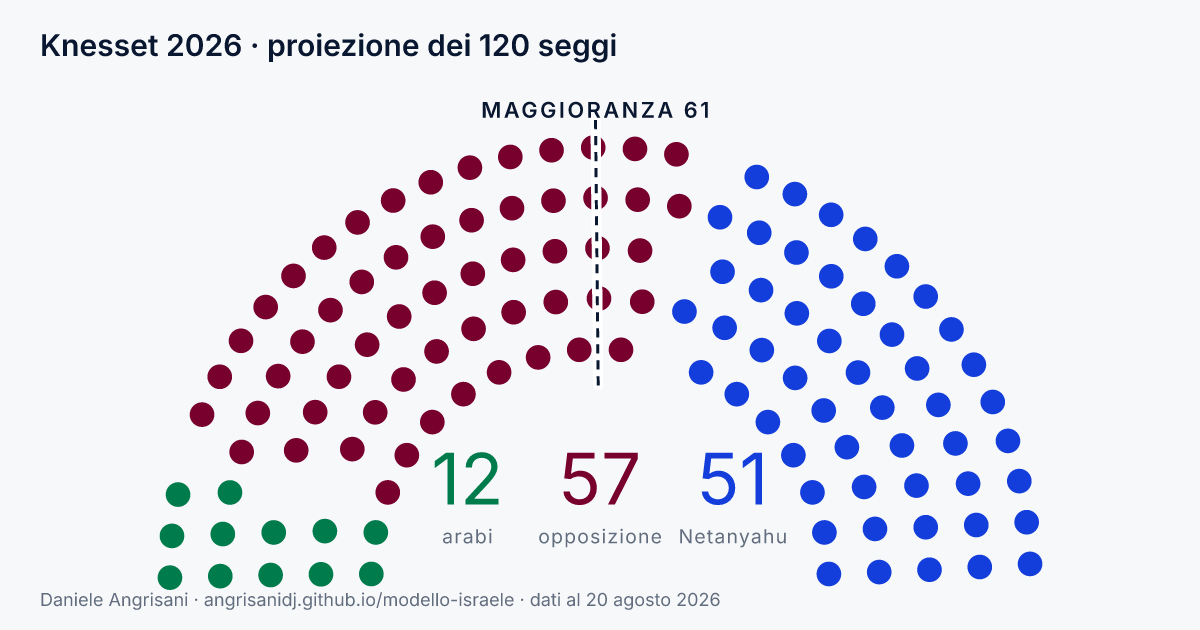
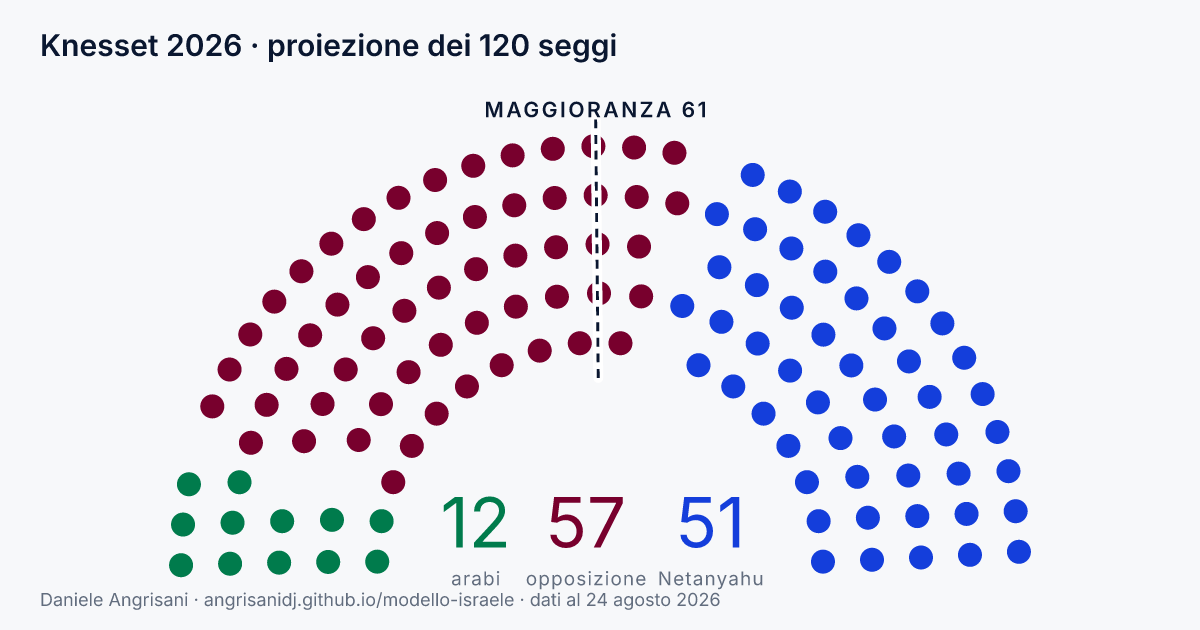
Far uscire dalla pagina anche la dichiarazione dell'ipotesi, non solo i numeri
La leva delle liste in bilico nasce accesa, quindi il conteggio predefinito non
è quello della fonte. La riga di esito lo dichiara a chi è sulla pagina — e chi
riceve il link su WhatsApp, chi vede la card su Facebook e il servizio terzo che
riceve il prompt non hanno modo di saperlo. È la stessa famiglia del riquadro
dell'evento isolato: un numero che esce dal suo contesto.

LA DOMANDA NON È QUELLA DI statoLeve(), ed è la cosa che non si deduce. Quella
confronta con PAR_DEF e risponde «che cosa ha cambiato il lettore»: da quando il
predefinito è esso stesso un'ipotesi, TACE proprio quando l'ipotesi è applicata.
Serviva un'altra funzione per un'altra domanda — che cosa c'è dentro questi
numeri — e ipotesiNeiNumeri() è quella: una stringa, tre consumatori, e parla
solo quando l'ipotesi sposta davvero un seggio. Oggi restituisce stringa vuota e
niente cambia.

I CANALI SI DIVIDONO. X, Telegram, WhatsApp e Threads ricevono il testo, e a
dirlo è testoCondivisione(); Facebook e LinkedIn ricevono solo l'indirizzo, e a
dirlo è la targa dell'og:image. og:title NON PUÒ, ed è misurato: il titolo più
lungo sta a 58 caratteri su 59 disponibili.

L'alternativa — che il job scrivesse i totali senza la leva — è stata scartata:
la card direbbe numeri diversi da quelli che si trovano cliccando, cioè una
terza lettura degli stessi dati. L'anteprima deve dire quello che la pagina dice.

LA TARGA. La terza riga sta nella banda della testata, che vale 96 unità e ne usa
[…]

diff --git a/test/suite/blocchi.js b/test/suite/blocchi.js
@@ -62,7 +62,8 @@ src = src.slice(0, src.indexOf('carica().then(render,render)')) +
   'blocchi:blocchi,render:render,PRESET:PRESET,TOT_ORD:TOT_ORD,TOT_SIGLA:TOT_SIGLA,' +
   'testoCondivisione:testoCondivisione,promptAI:promptAI,serieModello:serieModello,' +
   'get SOND(){return SOND;},set SOND(v){SOND=v;},get SEG(){return SEG;},' +
-  'get PAR(){return PAR;},PAR_DEF:PAR_DEF,set SIM(v){SIM=v;}};})();';
+  'get PAR(){return PAR;},PAR_DEF:PAR_DEF,statoLeve:statoLeve,' +
+  'ipotesiNeiNumeri:ipotesiNeiNumeri,set SIM(v){SIM=v;}};})();';
 eval(src);
 
 const $ = i => D.getElementById(i);
@@ -492,6 +493,101 @@ function seggiOra(){ return A.IDS.filter(i => A.SEG[i]).map(i => i + ':' + A.SEG
   esito(A.bloccoDi('amcha') !== null && A.bloccoDi('lista_che_non_esiste') === null,
     'e bloccoDi() risponde null per una lista che non e in anagrafica, invece di indovinare');
   A.IN_BILICO.pop();
+}
+
+/* ══ 10 · QUELLO CHE ESCE DALLA PAGINA PORTA L'IPOTESI CON SÉ ══════════════════════
+ * È la famiglia del riquadro dell'evento isolato: un numero che esce dal suo contesto.
+ * Da quando la leva nasce accesa, il conteggio predefinito non è quello della fonte — e
+ * la riga di esito che lo dichiara la vede chi è SULLA pagina, non chi riceve il testo su
+ * WhatsApp, non chi vede la card su Facebook, non il servizio terzo che riceve il prompt.
+ *
+ * E LA DOMANDA NON È QUELLA DI statoLeve(). Quella confronta con PAR_DEF e risponde «che
+ * cosa ha cambiato il lettore»: con la leva accesa per difetto TACE proprio quando
+ * l'ipotesi è applicata. Le due funzioni devono restare due, e queste asserzioni sono
+ * quelle che lo tengono. */
+{
+  conBilico(0);
+  esito(A.ipotesiNeiNumeri() === '',
+    'senza seggi da spostare non si dichiara niente: un ipotesi che non muove un numero e ' +
+    'rumore, e insegna a saltare la riga prima del giorno in cui conta');
+  esito(A.testoCondivisione(false).indexOf('ipotesi') < 0,
+    'e la frase di condivisione non ne parla');
+
+  conBilico(4);
+  const ip = A.ipotesiNeiNumeri();
+  esito(ip.length > 0 && /ipotesi/.test(ip) && /non un fatto/.test(ip),
+    'con la lista in Knesset la dichiarazione c e, e dice che e un ipotesi', ip);
+  esito(/statoLeve/.test('') === false && A.statoLeve() === '',
+    'mentre statoLeve TACE, perche il lettore non ha cambiato niente: e la ragione per cui ' +
+    'le due funzioni sono due', '«' + A.statoLeve() + '»');
+  /* le tre strade che escono dalla pagina la portano, e la portano UGUALE */
+  esito(A.testoCondivisione(false).indexOf(ip) >= 0,
+    'la frase di condivisione la porta — X, Telegram, WhatsApp e Threads ricevono il testo');
+  esito(A.testoCondivisione(true).indexOf(ip) >= 0,
+    'anche nella forma con l indirizzo in coda');
+  esito(A.promptAI().indexOf(ip) >= 0,
+    'e il prompt che va al servizio terzo la porta');
+  /* UNA STRINGA SOLA: se un giorno una delle tre la ricomponesse per conto suo, direbbe la
+     stessa cosa oggi e una cosa diversa al primo ritocco. Si prova nel SORGENTE, dove sta
+     il legame, come per og:title e il job. */
+  const js = fs.readFileSync(__dirname + '/../app.js','utf8');
+  esito((js.match(/ipotesiNeiNumeri\(/g) || []).length >= 3,
+    'e nasce una volta sola: le strade che la usano la CHIAMANO, non la riscrivono ' +
+    '(una definizione piu le chiamate)',
+    String((js.match(/ipotesiNeiNumeri\(/g) || []).length) + ' occorrenze');
+
+  /* ══ e la targa dell'anteprima, che è la strada per Facebook e LinkedIn ══
+   * Lì il testo della condivisione non passa: passa solo l'indirizzo, e a parlare resta
+   * l'immagine. Il legame si prova nel sorgente del job — che gira in un altro processo,
+   * dove una divergenza non la vedrebbe nessuno — e la geometria si prova sui numeri. */
+  const ant = fs.readFileSync(__dirname + '/../../.github/scripts/anteprima.mjs','utf8');
+  /* LE DUE ASSERZIONI SONO PRECISE PERCHÉ DUE MUTANTI SONO SOPRAVVISSUTI A QUELLE VAGHE.
+     La prima stesura cercava `spia.ipotesiNeiNumeri` senza gli argomenti: il mutante che
+     passava alla targa la forma LUNGA — 142 caratteri su una riga che ne regge 100, cioè
+     una frase troncata proprio dove sta l'avvertimento — restava vivo. E non c'era niente
+     che dicesse che la riga viene DISEGNATA: spegnerla non faceva cadere nulla.
+     Si prova nel sorgente e non sul reso perché il job gira in un altro processo, dove una
+     divergenza non la vedrebbe nessuno. È l'idioma con cui og:title è legato al job. */
+  esito(/spia\.ipotesiNeiNumeri\(true\)/.test(ant),
+    'l anteprima CHIEDE la frase alla pagina invece di ricomporla, e chiede la forma CORTA');
+  esito(/ipotesi \? '<text/.test(ant),
+    'e la targa la DISEGNA davvero, invece di riceverla e buttarla');
+  esito(/ipotesiNeiNumeri:ipotesiNeiNumeri/.test(ant),
+    'e la funzione le arriva davvero, perche il job la espone nella spia');
+  /* le quote si LEGGONO dal sorgente del job e non si riscrivono qui: una costante
+     ricopiata in una prova e la strada doppia di sempre, e per giunta quella che decide se
+     la prova morde. */
+  const TESTA = +(/TESTA = (\d+)/.exec(ant) || [0,0])[1];
+  const yIp = +(/Y_IP = (\d+)/.exec(ant) || [0,0])[1];
+  const fsIp = +(/FS_IP = (\d+)/.exec(ant) || [0,0])[1];
+  esito(TESTA > 0 && yIp > 0 && fsIp > 0,
+    'la banda della testata e la riga della dichiarazione sono dichiarate nel sorgente',
+    'TESTA=' + TESTA + ' Y_IP=' + yIp + ' FS_IP=' + fsIp);
+  esito(yIp + 0.25 * fsIp < TESTA,
+    'e la riga sta DENTRO la banda che c e gia: non paga il disegno, perche la testata e ' +
+    'un margine della tela e non del disegno',
+    'fondo a ' + (yIp + 0.25 * fsIp) + ' su ' + TESTA);
+  /* IL PIEDE NON POTEVA PORTARLA, ed è il numero che ha deciso dove va. */
+  const LATO = +(/LATO = (\d+)/.exec(ant) || [0,40])[1];
+  const W = +(/W = (\d+)/.exec(ant) || [0,1200])[1];
+  const regge = Math.floor((W - 2 * LATO) / (0.55 * 18));
+  const piede = 'Daniele Angrisani · angrisanidj.github.io/modello-israele · dati al 24 agosto 2026';
+  esito(piede.length + ip.length > regge,
+    'e il piede non poteva portarla: a corpo 18 regge ' + regge + ' caratteri e ne usa gia ' +
+    piede.length + ', la dichiarazione ne vale ' + ip.length);
+  /* LA FORMA CORTA CI STA, ed è la ragione per cui esiste. */
+  const corta = A.ipotesiNeiNumeri(true);
+  const reggeIp = Math.floor((W - 2 * LATO) / (0.62 * fsIp));
+  esito(corta.length > 0 && corta.length <= reggeIp,
+    'e la forma corta ci sta nella riga della testata senza essere tagliata',
+    corta.length + ' caratteri su ' + reggeIp + ': «' + corta + '»');
+  esito(/^Ipotesi del modello/.test(corta),
+    'e mette l essenziale DAVANTI: se un giorno andasse tagliata, a sopravvivere e ' +
+    'l avvertimento e non il dettaglio', corta);
+  esito(corta.length < ip.length,
+    'la corta e piu corta della lunga, che e quello che le distingue',
+    corta.length + ' contro ' + ip.length);
+  conAgo(4);
 }
 
 console.log('\nblocchi: ' + ok + '/' + (ok + ko));

diff --git a/index.html b/index.html
@@ -4461,6 +4461,55 @@ var AI_MOTORI=[
    Quindi il prompt lo dice. Si dichiarano solo le leve FUORI dal valore predefinito: a
    pagina intonsa la frase non c'è, e non si spiega una cosa che non è successa.
    I valori predefiniti escono da PAR_DEF e dalle costanti, non da una seconda copia. */
+/* ══ CHE IPOTESI C'È NEI NUMERI — che NON è la domanda di statoLeve() ══════════════════
+   statoLeve() risponde a «che cosa ha cambiato il lettore»: confronta con PAR_DEF, e serve
+   a dire a un servizio terzo che i numeri che riceve non sono quelli che troverebbe
+   all'indirizzo. È la domanda giusta finché il predefinito è il conteggio della fonte.
+   DAL 27 AGOSTO 2026 NON LO È PIÙ, e le due domande si sono separate. La leva delle liste
+   in bilico nasce accesa, quindi quando l'ipotesi È APPLICATA statoLeve() tace — perché
+   nessuno ha cambiato niente — ed è esattamente il caso in cui bisogna parlare. Una sola
+   funzione per le due domande direbbe la cosa giusta per la ragione sbagliata, e tacerebbe
+   nel caso peggiore.
+   QUESTA RISPONDE A «CHE COSA C'È DENTRO QUESTI NUMERI», e la risposta non dipende da chi
+   l'ha messa lì. Serve a tutto quello che ESCE DALLA PAGINA — la frase di condivisione, il
+   prompt, la targa dell'anteprima — dove chi legge non ha la riga di esito davanti e non ha
+   nessun modo di sapere che sta guardando un'ipotesi. È la stessa famiglia del riquadro
+   dell'evento isolato: un numero che esce dal suo contesto.
+   E PARLA SOLO QUANDO L'IPOTESI SPOSTA DAVVERO QUALCOSA. Oggi nessuna lista in bilico ha
+   seggi, quindi la leva muove zero e questa funzione restituisce stringa vuota: la frase
+   compare dal primo sondaggio che ne fa entrare una, insieme al pulsante. Dichiarare
+   un'ipotesi che non cambia nessun numero sarebbe rumore, e insegnerebbe a saltare la riga
+   proprio prima del giorno in cui conta. */
+/* DUE FORME, UNA FUNZIONE, ed è la stessa struttura di testoCondivisione() e di
+   titoloCorto()/fraseCorta(). La lunga sta dove c'è spazio — il testo di condivisione, il
+   prompt — e nomina le liste. La corta sta nella targa dell'anteprima, dove lo spazio è
+   contato: misurato, la riga della testata a corpo 18 regge 113 caratteri e la forma lunga
+   ne vale 142.
+   E LA FORMA CORTA METTE L'ESSENZIALE DAVANTI: apre con «Ipotesi del modello», non ci
+   arriva in fondo. Se un giorno la riga andasse tagliata — più righe in tabella, nomi più
+   lunghi — quello che sopravvive al taglio dev'essere la parte che avverte, non quella che
+   dettaglia. È la stessa scelta della riga di esito, che dichiara l'ipotesi nel primo
+   periodo perché quella frase la legge chi non ha toccato niente. */
+function ipotesiNeiNumeri(corta){
+ if(!PAR.inbilico) return '';
+ var c=contoBilico();
+ /* BASTA `ok.length`, e il `!c.mossi` che c'era accanto era irraggiungibile: filtraBilico()
+    scarta già le righe la cui lista non ha seggi nella proiezione, quindi una riga che
+    entra ne ha per definizione, e con la leva accesa quei seggi cambiano campo — mossi non
+    può essere zero. Una guardia che nessuna mutazione fa cadere è codice che nessuna prova
+    esercita, e l'ha trovata il banco delle mutazioni, non l'attenzione. */
+ if(!c.ok.length) return '';
+ if(corta){
+  var versi=c.ok.map(function(x){return BL[x.verso].n;})
+    .filter(function(v,i,a){return a.indexOf(v)===i;}).join(' e ');
+  return 'Ipotesi del modello: '+seg(c.mossi)+' '+acc(c.mossi,'contato','contati')+
+   ' con '+versi+', dove la fonte non '+acc(c.mossi,'lo mette','li mette')+'.';
+ }
+ var quali=c.ok.map(function(x){return nm(x.id)+' con '+BL[x.verso].n;}).join('; ');
+ return acc(c.mossi,'Un seggio è contato','Sono contati '+f(c.mossi)+' seggi')+
+  ' in un blocco in cui la fonte non '+acc(c.mossi,'lo mette','li mette')+': '+quali+
+  '. È un’ipotesi del modello, non un fatto.';
+}
 function statoLeve(){
  var v=[];
  var esc=Object.keys(ESCL).filter(function(k){return ESCL[k];});
@@ -4490,6 +4539,13 @@ function testoCondivisione(conIndirizzo){
      su X, su Facebook e su Telegram, dove un numero sbagliato non si corregge piu'. */
   ', partiti arabi '+f(b.arabo)+(b.incerto?', ago della bilancia '+f(b.incerto):'')+
   '. Aggiornata ogni notte sui sondaggi pubblicati.';
+ /* LA DICHIARAZIONE VA NEL TESTO, e non basta che stia nell'anteprima. Questa frase la
+    ricevono X, Telegram, WhatsApp e Threads, dove il testo passa come parametro: chi la
+    legge ha i numeri davanti e la pagina no. Su Facebook e LinkedIn passa solo l'indirizzo,
+    e lì a dirlo è la targa dell'immagine — le due strade coprono i due casi, e nessuna
+    delle due è di troppo perché nessuna delle due arriva sempre. */
+ var ip=ipotesiNeiNumeri();
+ if(ip) t+=' '+ip;
  return conIndirizzo?(t+' — '+CANONICO.replace(/^https?:\/\//,'').replace(/\/$/,'')):t;
 }
 /* IL PROMPT. I numeri sono quelli vivi; le leve fuori dal predefinito si dichiarano, o il
@@ -4502,7 +4558,7 @@ function promptAI(){
  var b=blocchi(SEG), g=ggCal(new Date(),VOTO), tot=MC.n||SIM;
  var pc=function(x){return f(Math.round(100*x/tot));};
  var u=SOND.map(function(s){return s.data;}).sort().pop();
- var leve=statoLeve(), np=nonPubblicate().length;
+ var leve=statoLeve(), ip=ipotesiNeiNumeri(), np=nonPubblicate().length;
  var ind=CANONICO.replace(/^https?:\/\//,'').replace(/\/$/,'');
  return 'Sto guardando un modello previsionale per le elezioni israeliane del 27 ottobre 2026, a '+
   f(g)+' giorni dal voto. La proiezione di oggi assegna '+f(b.coalizione)+' seggi al blocco Netanyahu, '+
@@ -4527,6 +4583,13 @@ function promptAI(){
       'del '+dl(u)+'.':'')+
   (leve?' Attenzione: questi numeri sono calcolati '+leve+', quindi differiscono dalla proiezione '+
    'di base che si vede aprendo l\'indirizzo.':'')+
+  /* E QUESTA È UN'ALTRA COSA DA «leve», benché sembri la stessa. `leve` dice che cosa il
+     lettore ha cambiato rispetto al predefinito; questa dice che ipotesi c'è nei numeri, e
+     le due divergono esattamente nel caso peggiore — la leva delle liste in bilico è accesa
+     PER DIFETTO, quindi quando l'ipotesi è applicata `leve` tace. Il prompt esce dalla
+     pagina e va a un servizio terzo, che risponderebbe su un conteggio che la fonte non fa
+     senza avere modo di saperlo. */
+  (ip?' '+ip:'')+
   '\n\nSpiegami che cosa significano questi numeri: quali coalizioni sono aritmeticamente '+
   'possibili, quali sono politicamente escluse dai veti dichiarati dai leader, e che cosa '+
   'dovrebbe cambiare perché uno dei due campi arrivi a 61. Cerca anche le notizie delle '+

diff --git a/CLAUDE.md b/CLAUDE.md
@@ -4247,6 +4247,81 @@ lettore si troverebbe davanti a un'ipotesi applicata senza il comando per toglie
 prova non indovina il punto, lo **cerca**: «al primo seggio» sarebbe falso, perché un seggio
 per rilevazione vale una quota dello 0,8% contro una soglia di 3,25.
 
+### Quello che esce dalla pagina deve portare l'ipotesi con sé
+
+Chiuso il 27 agosto 2026, subito dopo aver acceso la leva. È la stessa famiglia del
+riquadro dell'evento isolato: **un numero che esce dal suo contesto.** La riga di esito
+dichiara l'ipotesi a chi è sulla pagina; chi riceve il link su WhatsApp, chi vede la card
+su Facebook e il servizio terzo che riceve il prompt non hanno modo di saperlo.
+
+**LA DOMANDA NON È QUELLA DI `statoLeve()`, ed è la cosa che non si deduce.** `statoLeve()`
+confronta con `PAR_DEF` e risponde «che cosa ha cambiato il lettore»: serviva a dire a un
+servizio terzo che i numeri ricevuti non sono quelli che troverebbe all'indirizzo, ed è la
+domanda giusta finché il predefinito è il conteggio della fonte. **Da quando la leva nasce
+accesa non lo è più**: quando l'ipotesi è applicata `statoLeve()` **tace**, perché nessuno
+ha cambiato niente — cioè tace esattamente nel caso in cui bisogna parlare. Una funzione
+sola per le due domande direbbe la cosa giusta per la ragione sbagliata.
+
+Da qui `ipotesiNeiNumeri()`, che risponde a «che cosa c'è dentro questi numeri» e non
+dipende da chi ce l'ha messo. **Una stringa, tre consumatori** — la frase di condivisione,
+il prompt, la targa dell'anteprima — che è l'idioma di `fraseCorta()`.
+
+**Parla solo quando l'ipotesi sposta davvero qualcosa.** Oggi restituisce stringa vuota, e
+niente di quello che esce dalla pagina cambia: la frase compare dal primo sondaggio che fa
+entrare una lista in bilico, insieme al pulsante. Dichiarare un'ipotesi che non muove nessun
+numero insegnerebbe a saltare la riga proprio prima del giorno in cui conta.
+
+### I canali si dividono, e insieme si coprono
+
+| canale | che cosa passa | chi lo dichiara |
+|---|---|---|
+| X · Telegram · WhatsApp · Threads | testo **e** indirizzo | `testoCondivisione()` |
+| Facebook · LinkedIn | **solo** l'indirizzo | la targa dell'`og:image` |
+| il prompt a un servizio terzo | testo | `promptAI()` |
+| `og:title` | — | **non può** |
+
+**`og:title` non può, ed è misurato: il titolo più lungo sta a 58 caratteri su 59
+disponibili.** Un carattere di margine, e il tetto non è arbitrario — è il `<title>` che
+finisce nella linguetta del browser e nella card. Qualunque clausola lo sfonda. Ma la
+copertura non ha buchi lo stesso: dove il titolo arriva da solo, senza testo e senza
+immagine, non arriva nemmeno un numero — le card che mostrano solo il titolo mostrano anche
+la descrizione, e il titolo senza l'immagine è il caso che non esiste.
+
+**L'alternativa era che il job scrivesse i totali senza la leva**, ed è stata scartata: la
+card direbbe numeri **diversi** da quelli che si trovano cliccando, cioè una terza lettura
+degli stessi dati. L'anteprima deve dire quello che la pagina dice.
+
+### La targa: la terza riga è gratis, e il piede non poteva portarla
+
+| | misurato |
+|---|---|
+| banda della testata | **96 unità**, e ne usa **63** (titolo a corpo 30, base a y=56) |
+| la riga nuova | corpo 18, base a **y=84** → fondo a 88,5, **7,5 unità di margine** |
+| costo per il disegno | **zero**: la testata è un margine della **tela**, non del disegno |
+| il piede a corpo 18 | regge **113 caratteri** e ne usa già **82** (firma, indirizzo, data) |
+| la forma **lunga** | **142 caratteri** → nel piede sforerebbe, nella testata pure |
+| la forma **corta** | **86 caratteri** su 100 disponibili ✓ |
+
+Da cui **due forme e una funzione**, che è la struttura di `testoCondivisione(conIndirizzo)`
+e di `titoloCorto()`/`fraseCorta()`.
+
+**E la forma corta mette l'essenziale DAVANTI**: apre con «Ipotesi del modello», non ci
+arriva in fondo. Il taglio della targa avviene in coda — stima per eccesso a 0,62 em, come
+`inchiostro()` — quindi quello che sopravvive a un taglio dev'essere la parte che **avverte**,
+non quella che dettaglia. Se un giorno la frase cambiasse ordine, quel taglio diventerebbe
+una censura dell'avvertimento, ed è scritto accanto alla funzione che taglia.
+
+### Tre mutanti sopravvissuti, e uno era codice mio di troppo
+
+- **`!c.mossi` era irraggiungibile.** `filtraBilico()` scarta già le righe la cui lista non
+  ha seggi, quindi una riga che entra ne ha per definizione e `mossi` non può essere zero.
+  Una guardia che nessuna mutazione fa cadere è codice che nessuna prova esercita: tolta.
+- **Due asserzioni sulla targa erano vaghe.** Cercavano `spia.ipotesiNeiNumeri` senza gli
+  argomenti, quindi il mutante che passa la forma **lunga** — 142 caratteri su una riga che
+  ne regge 100, cioè una frase troncata proprio dove sta l'avvertimento — restava vivo. E
+  non c'era niente che dicesse che la riga viene **disegnata**: spegnerla non faceva cadere
+  nulla. Adesso l'ancora comprende `(true)` e la presenza del `<text>`.
+
 ---
 
 ## La condivisione: lo stesso elenco due volte, e il glifo che non si leggeva
@@ -4420,7 +4495,7 @@ Due conseguenze pratiche, e sono quelle da ricordare:
 
 ### Lo stato al 27 agosto 2026
 
-Banco a **2294**, struttura pulita, spazzola pulita. È entrato il giro dei **quattro
+Banco a **2311**, struttura pulita, spazzola pulita. È entrato il giro dei **quattro
 blocchi** — vedi la sezione omonima: l'emiciclo che ne contava tre su quattro, i nove
 consumatori che perdevano il quarto, la leva `IN_BILICO` che riclassifica senza ricalcolare,
 e `test/suite/blocchi.js`, che è la prova che legava i totali al 120 e che non esisteva.
@@ -4434,7 +4509,8 @@ smette di essere lo stesso elenco due volte, con la colonna che torna nell'alber
 accessibilità e prende la copia del collegamento; e i **glifi** — i quattro marchi dei
 modelli rifatti sul riferimento dell'autore, e il gancio di Threads ridisegnato perché alla
 misura in cui vive era una macchia. Mutazioni: **20 su 20** nel primo giro e **13 su 13**
-nel secondo.
+nel secondo, **8 su 8** nel terzo — quello che chiude `og:title`, `og:image`,
+`testoCondivisione()` e `promptAI()`, cioè tutto quello che esce dalla pagina.
 
 ### Lo stato al 26 agosto 2026
 
